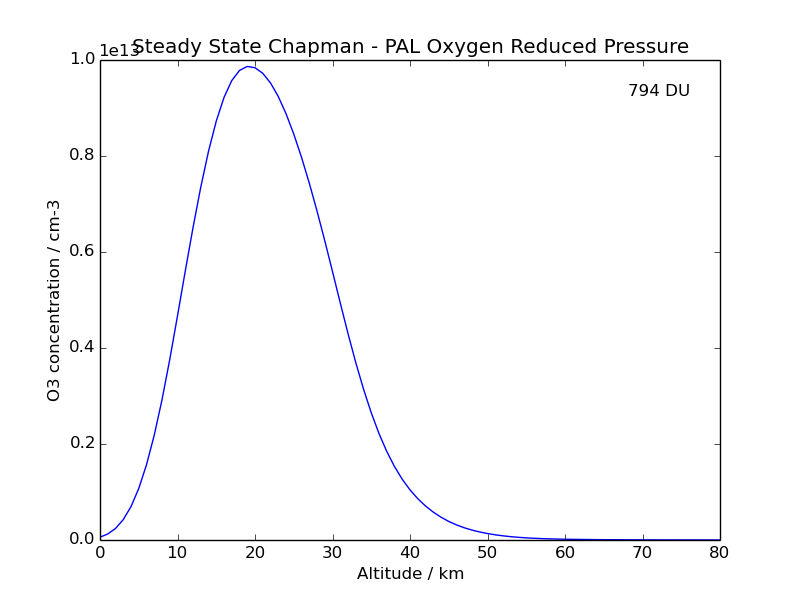
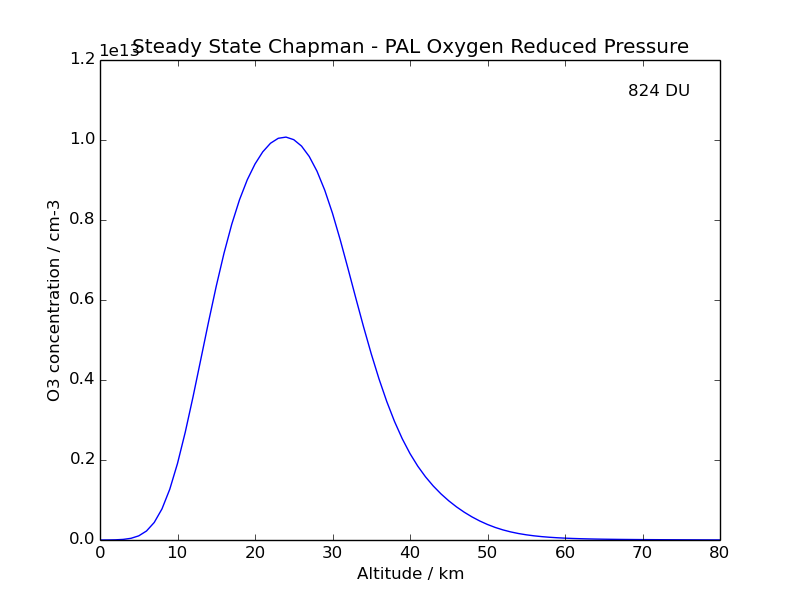
Changes to main-->oxygen

diff --git a/oxygen.py b/oxygen.py
@@ -1,0 +1,107 @@
+# This file is the main control routine for the stratospheric ozone code
+# July 2015, dcw32@cam.ac.uk
+# run as python oxygen.py
+import numpy as np
+import matplotlib.pyplot as plt
+
+from data import extract_csec,savetonetcdf
+from j_rates import j
+from k_rates import k
+from steady_state import steady,ozone,otp
+from plotting import altconc,linoxyoz,logoxyoz,inter_plot2
+from solver import solve
+
+print "STARTING PROGRAM OXYGEN"
+
+################################################################################
+# RUNNING OPTIONS
+################################################################################
+
+# Oxygen ratio
+ratio = 0.21
+# Steady state mode - can set up 'initial values' for chem scheme
+steadystate = True
+# Plotting scripts - plots oxygen vs ozone for a range of oxygen vals
+plot_on = True
+# Interactive plotting tool for steady state chapman chemistry
+interactive = True
+# Numerical ODE solver
+new_numerics = False
+
+################################################################################
+# CONSTANTS
+################################################################################
+
+# Change these at your peril!
+#Number of atmospheric levels
+nlevs=81
+#Height, km
+h_min=0
+h_max=80
+heights=np.linspace(h_max,h_min,nlevs)
+#scale height, km
+H=7
+#surface M, cm-3
+M_surf=2.5E19*(ratio+0.79)
+#M_surf=2.5E19*0.5
+M=M_surf*np.exp(-heights/H)
+
+box_h=(1E5*(h_max-h_min)/(nlevs-1))
+
+# wavelength bins, interpolating o2 & solar onto o3 csec wavelengths, extract temps
+constants=extract_csec(heights)
+
+# Creates a dictionary with all the constants
+key=['H','nlevs','heights','M_surf','ratio','ratio_copy','box_h','M','soln']
+vals=[H,nlevs,heights,M_surf,ratio,ratio,box_h,M,constants['sol']]
+
+for i in range(len(key)):
+	constants[key[i]]=vals[i]
+
+################################################################################
+# MAIN ROUTINES
+################################################################################
+
+def main():
+	if steadystate==True:
+		print "CALCULATING STEADY STATE OZONE COLUMN (CHAPMAN)"
+		o3,o2,o,J_o2,J_o3,o3_running=steady(constants,True)
+		altconc(constants,o3,o3_running)
+
+	#Interactive plot of ozone vs o2
+		if interactive==True:
+	        	print "INTERACTIVE PLOTTING"
+			inter_plot2(o3,J_o2,J_o3,constants)
+
+		if plot_on==True:
+			print "RUNNING PLOTTING SCRIPTS"
+			logoxyoz(constants)
+			linoxyoz(constants)
+
+	if new_numerics==True:
+		print "RUNNING NUMERICAL SOLVER"
+		d1defs,d1,d3=solve(constants)
+		savetonetcdf(constants,d1defs,d1,d3)
+		
+	        o3=d1[np.where(d1defs=='O3')[0][0],:]
+	        plt.plot(heights,d3[np.where(d1defs=='O3')[0][0],:])
+		plt.plot(heights,d1[np.where(d1defs=='O3')[0][0],:])
+		#plt.savefig('ozone_out.png')
+		plt.show()
+		o3=o3*constants['box_h']
+	        du=np.sum(o3)/2.69E16
+	        print du
+		o3=d3[np.where(d1defs=='O3')[0][0],:]
+		o3=o3*constants['box_h']
+		du=np.sum(o3)/2.69E16
+		print du
+		#print d3[np.where(d1defs=='H2O')[0][0],:]
+
+	print "OXYGEN.PY COMPLETE"
+
+################################################################################
+# END
+################################################################################
+
+if __name__ ==  "__main__":
+	main()

diff --git a/plotting.py b/plotting.py
@@ -102,11 +102,11 @@ def inter_plot2(o3,J_o2,J_o3,constants):
         #ax0.add_artist(ann)
         #Sets up sliders
         axo2=plt.axes([0.25,0.1,0.65,0.03],axisbg='lightgoldenrodyellow')
-        so2=Slider(axo2, 'O\mathrm{_{2}}', 0.9, 1.1, valinit=1.0)
+        so2=Slider(axo2, 'O\mathrm{_{2}}', 0.05, 0.35, valinit=0.21)
         #Updates graphs based on slider value
         def update(val):
                 ratio=so2.val
-                constants['sol']=constants['soln']*ratio
+                constants['ratio_copy']=ratio
                 o3,o2,o,J_o2,J_o3,o3_running=steady(constants,False)
                 m.set_ydata(J_o2*1E10)
                 l.set_ydata(o3/1E12)

diff --git a/solver.py b/solver.py
@@ -10,6 +10,8 @@ from j_rates import j
 def solve(constants):
  o2_running=0
  o3_running=0
+ constants['M_surf']=2.5E19*(constants['ratio']+0.79)
+ constants['M']=constants['M_surf']*np.exp(-constants['heights']/constants['H'])
  d1defs=np.genfromtxt("species.dat",dtype='str',skiprows=2)
  bimol=np.genfromtxt("bimol.dat",dtype='str',skiprows=2)
  photo=np.genfromtxt("photol.dat",dtype='str',skiprows=2)

diff --git a/steady_state.py b/steady_state.py
@@ -21,7 +21,7 @@ def steady(constants,init):
 	o2_running=0
 	o3_running=0
 	for i in range(constants['nlevs']):
-        	o2[i]=constants['ratio']*constants['M'][i]
+        	o2[i]=constants['ratio_copy']*constants['M'][i]
 	        optical_depth=constants['o2_c']*o2_running+constants['o3_c']*o3_running
 	        I_factor=np.exp(-optical_depth)
         	I=np.array(constants['sol']*I_factor)
